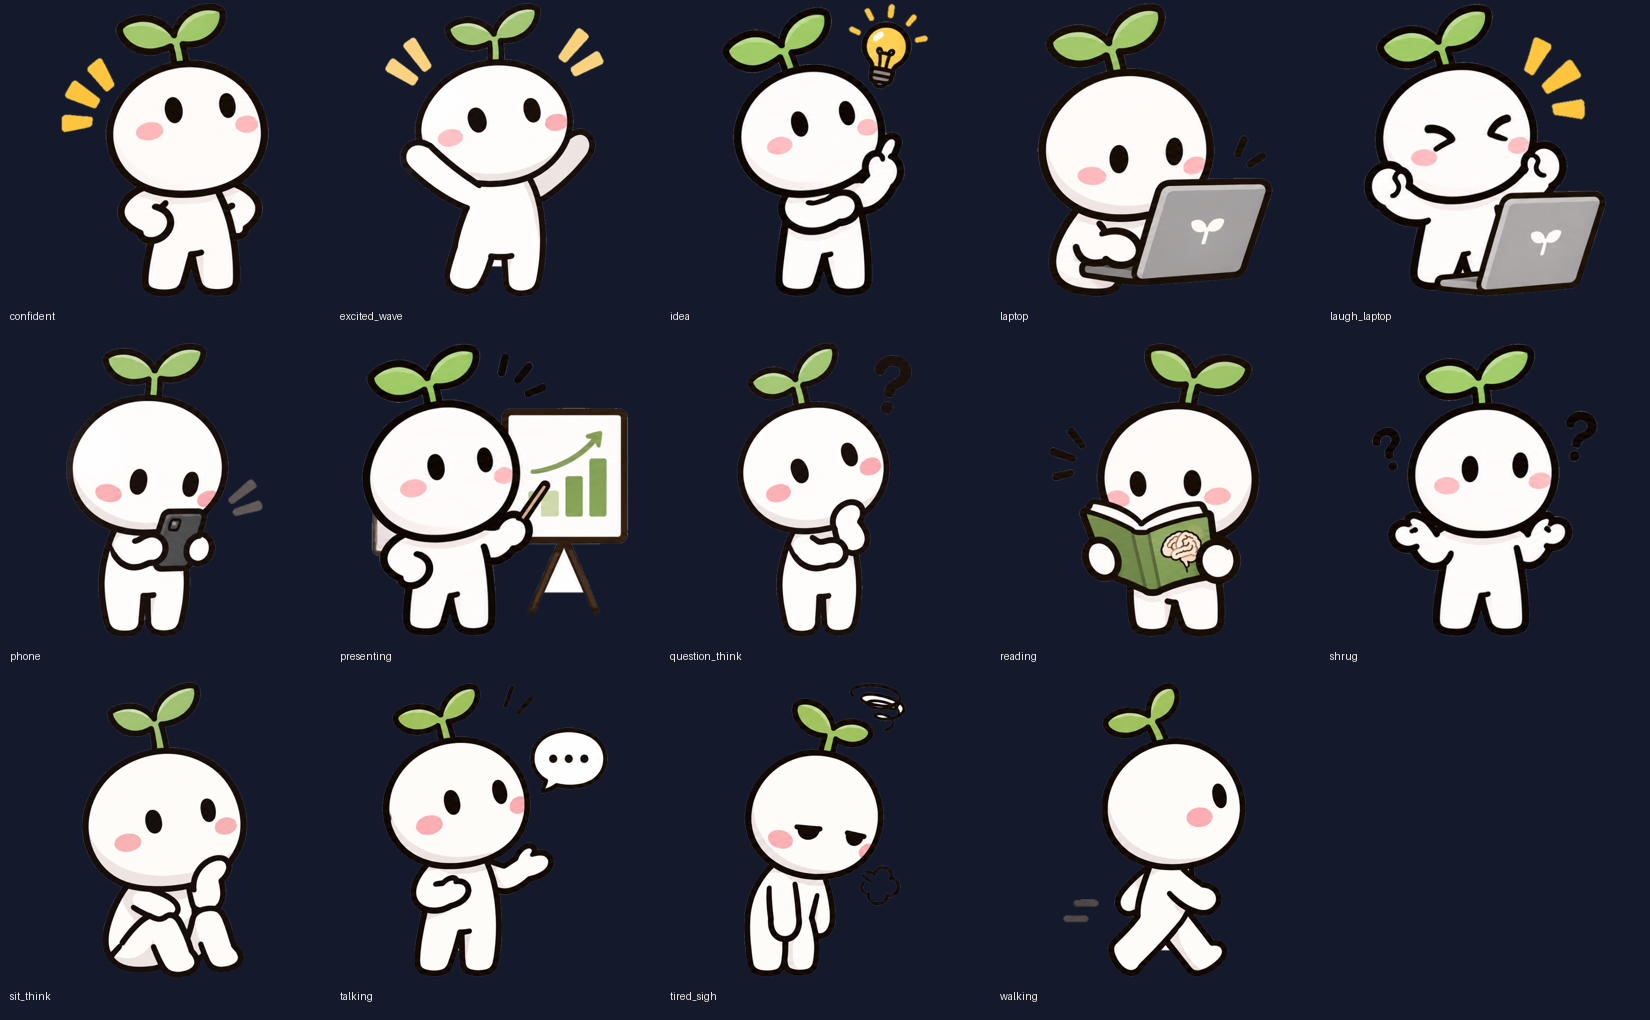
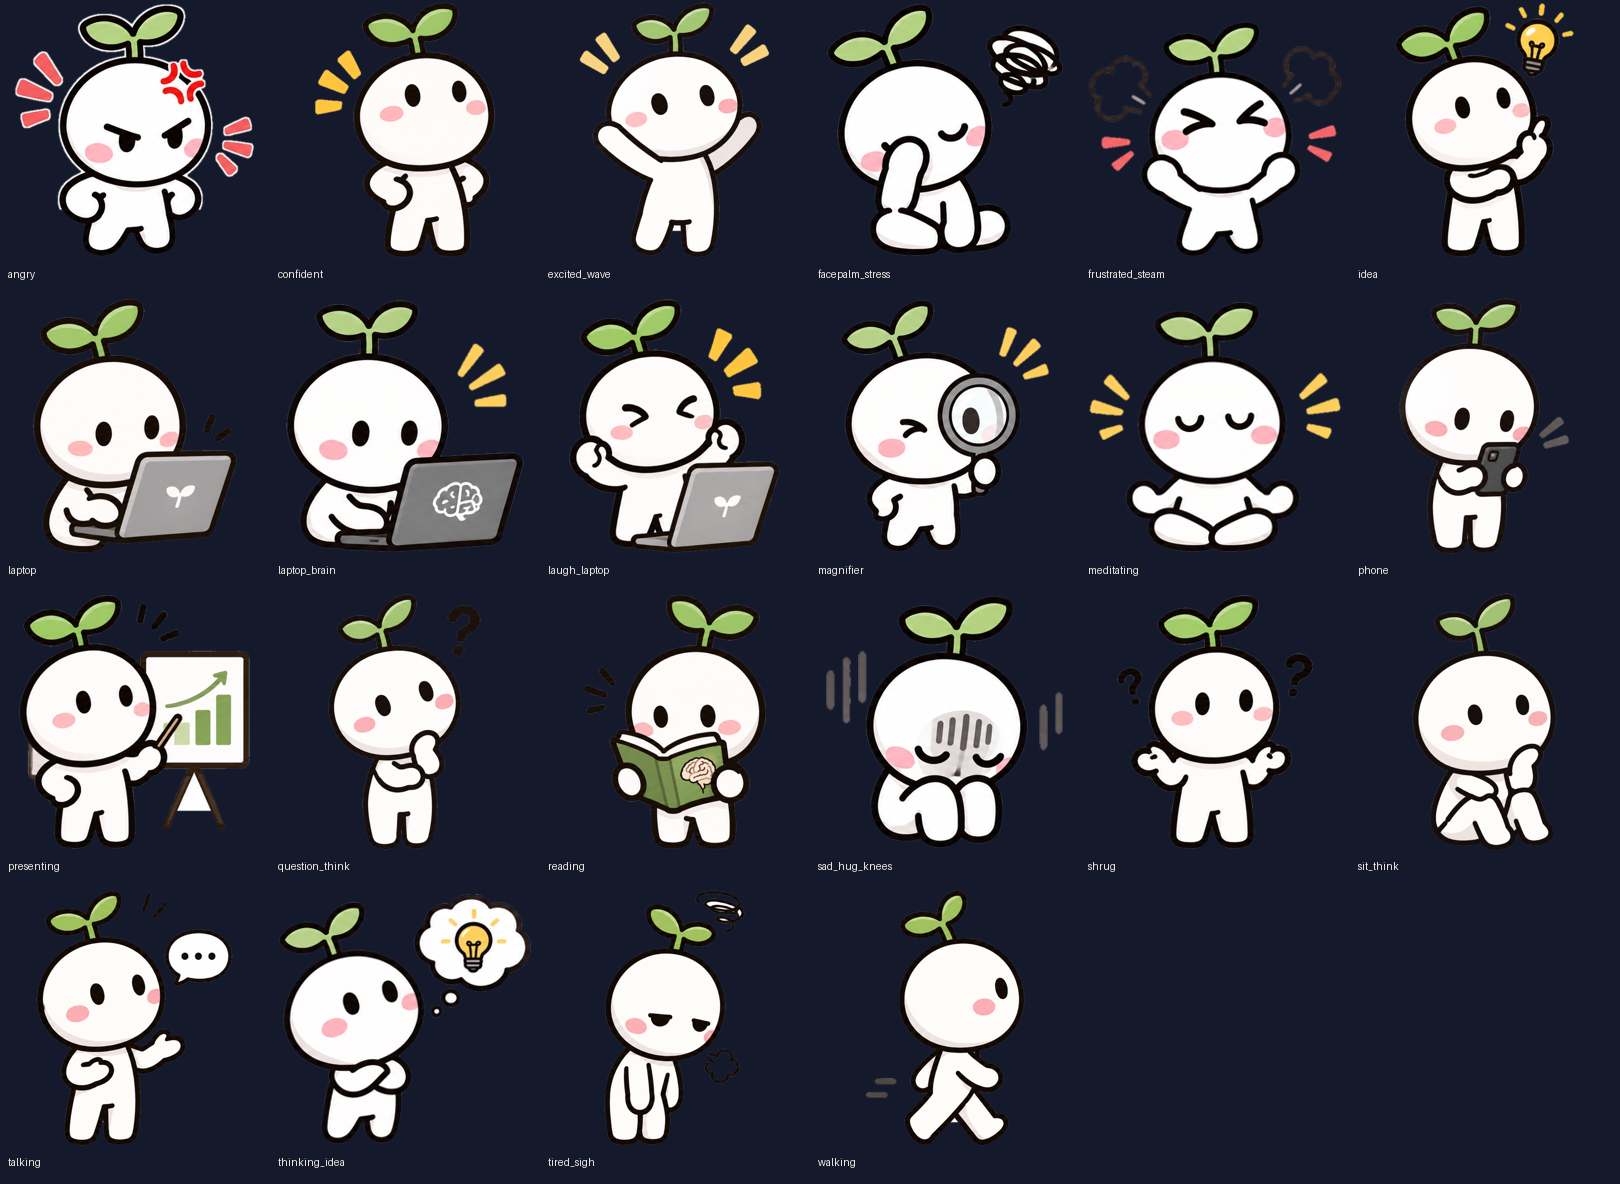
Add 8 more Milo poses (emotions and research/meditation)
Claude-Session: https://claude.ai/code/session_01Jkn9nKkGnE2sXbQewNGyZV

diff --git a/pilots/poses/README.md b/pilots/poses/README.md
@@ -1,7 +1,7 @@
 # Библиотека поз Майло (от пользователя, ChatGPT, 06.11.2026)
 
 Исходники: `src/` (листы с белым фоном). Готовые позы на прозрачном фоне: `png/milo_<имя>.png`.
-Пересобрать: `python3 -I pilots/poses/extract.py`. Обзор на тёмном фоне: `milo_poses_sheet.png`.
+Обзор на тёмном фоне: `milo_poses_sheet.png`.
 
 | Поза | Когда использовать |
 |---|---|
@@ -19,6 +19,14 @@
 | talking | говорит, облачко «...» |
 | tired_sigh | устал, вздох, голова кружится |
 | walking | идёт (вид сбоку, линии скорости) |
+| angry | злится, руки в боки, значок гнева |
+| frustrated_steam | бесится, пар из ушей |
+| sad_hug_knees | грусть/депрессия, сидит обняв колени |
+| facepalm_stress | стресс, лицо в ладони, каракули над головой |
+| laptop_brain | ноутбук с мозгом (исследует психологию) |
+| magnifier | исследует, лупа |
+| thinking_idea | думает, облачко с лампочкой |
+| meditating | медитирует, спокойствие |
 
 Правило: Майло не анимируется кодом — только смена поз + лёгкий эффект речи (покачивание, «дыхание»,
 подпрыгивание на фразе, субтитры). Не хватает поз/локаций — попросить пользователя.
